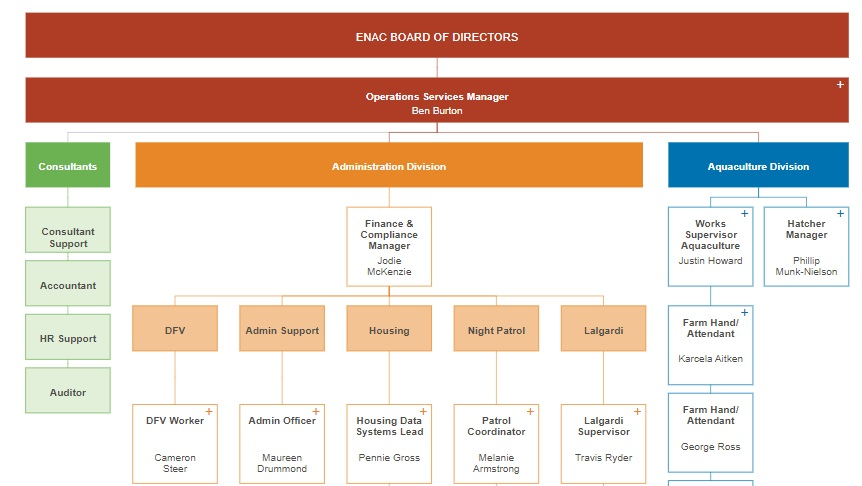
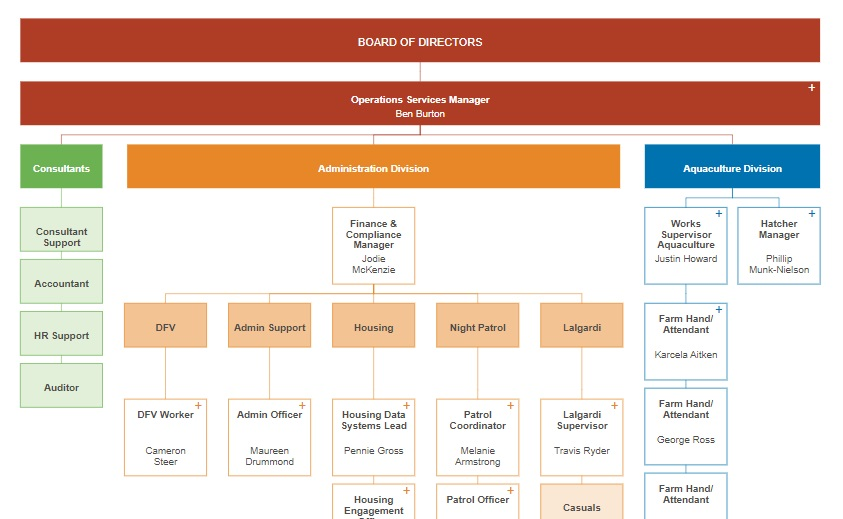
color template fixed

Changed region(s): [[0.0, 0.0, 0.987, 1.0]]

diff --git a/Color/template.js b/Color/template.js
@@ -27,7 +27,7 @@ window.onload = function () {
     OrgChart.templates.green.field_1 = 
       '<text data-width="140" style="font-size: 18px;" fill="#ffffff" font-weight="bold" x="75" y="50" text-anchor="middle">{val}</text>';
     OrgChart.templates.green.link = 
-    '<path stroke-linejoin="round" stroke="#aeaeae" stroke-width="1px" fill="none" d="{edge}" />';
+    '<path stroke-linejoin="round" stroke="#af3c25" stroke-width="1px" fill="none" d="{edge}" />';
 
     OrgChart.templates.lightgreen = Object.assign({}, OrgChart.templates.green);
     OrgChart.templates.lightgreen.size = [150, 80];
@@ -178,4 +178,3 @@ window.onload = function () {
 
       chart.load(nodes);
   }
-  
